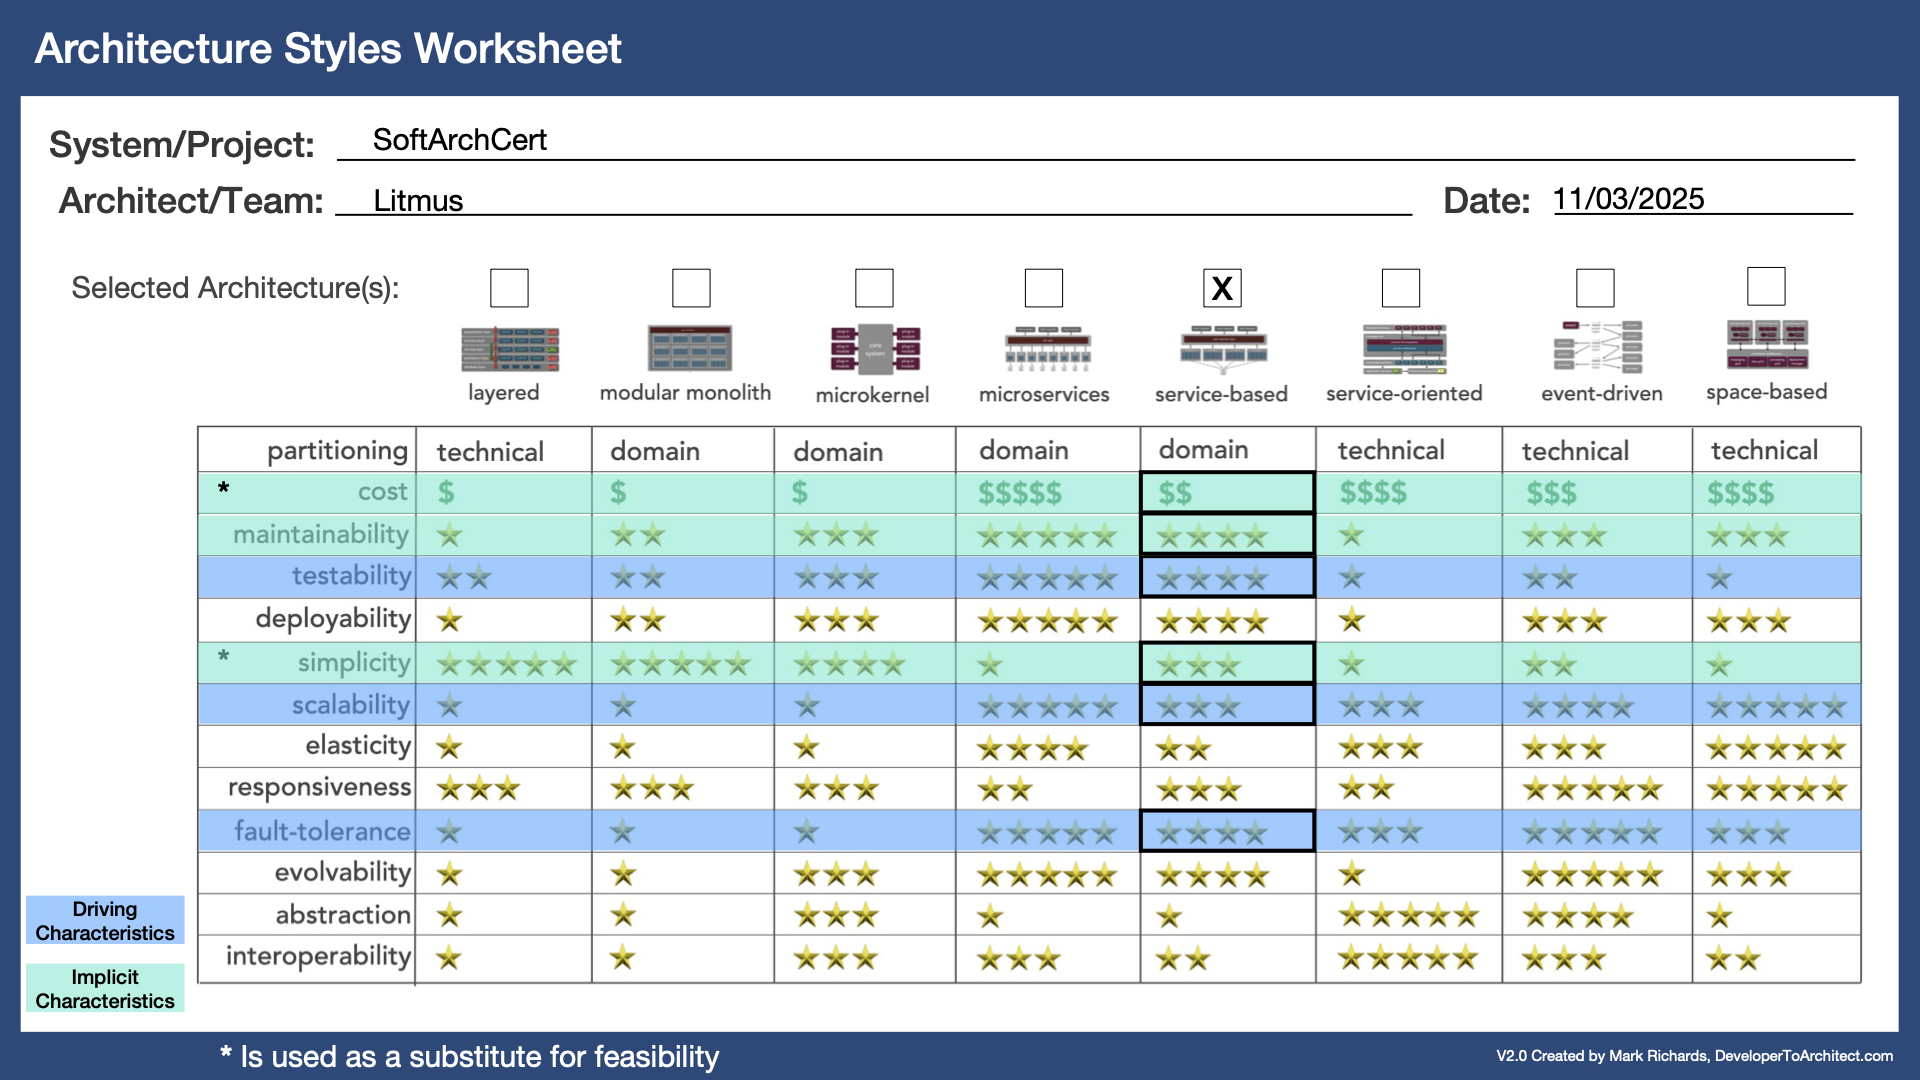
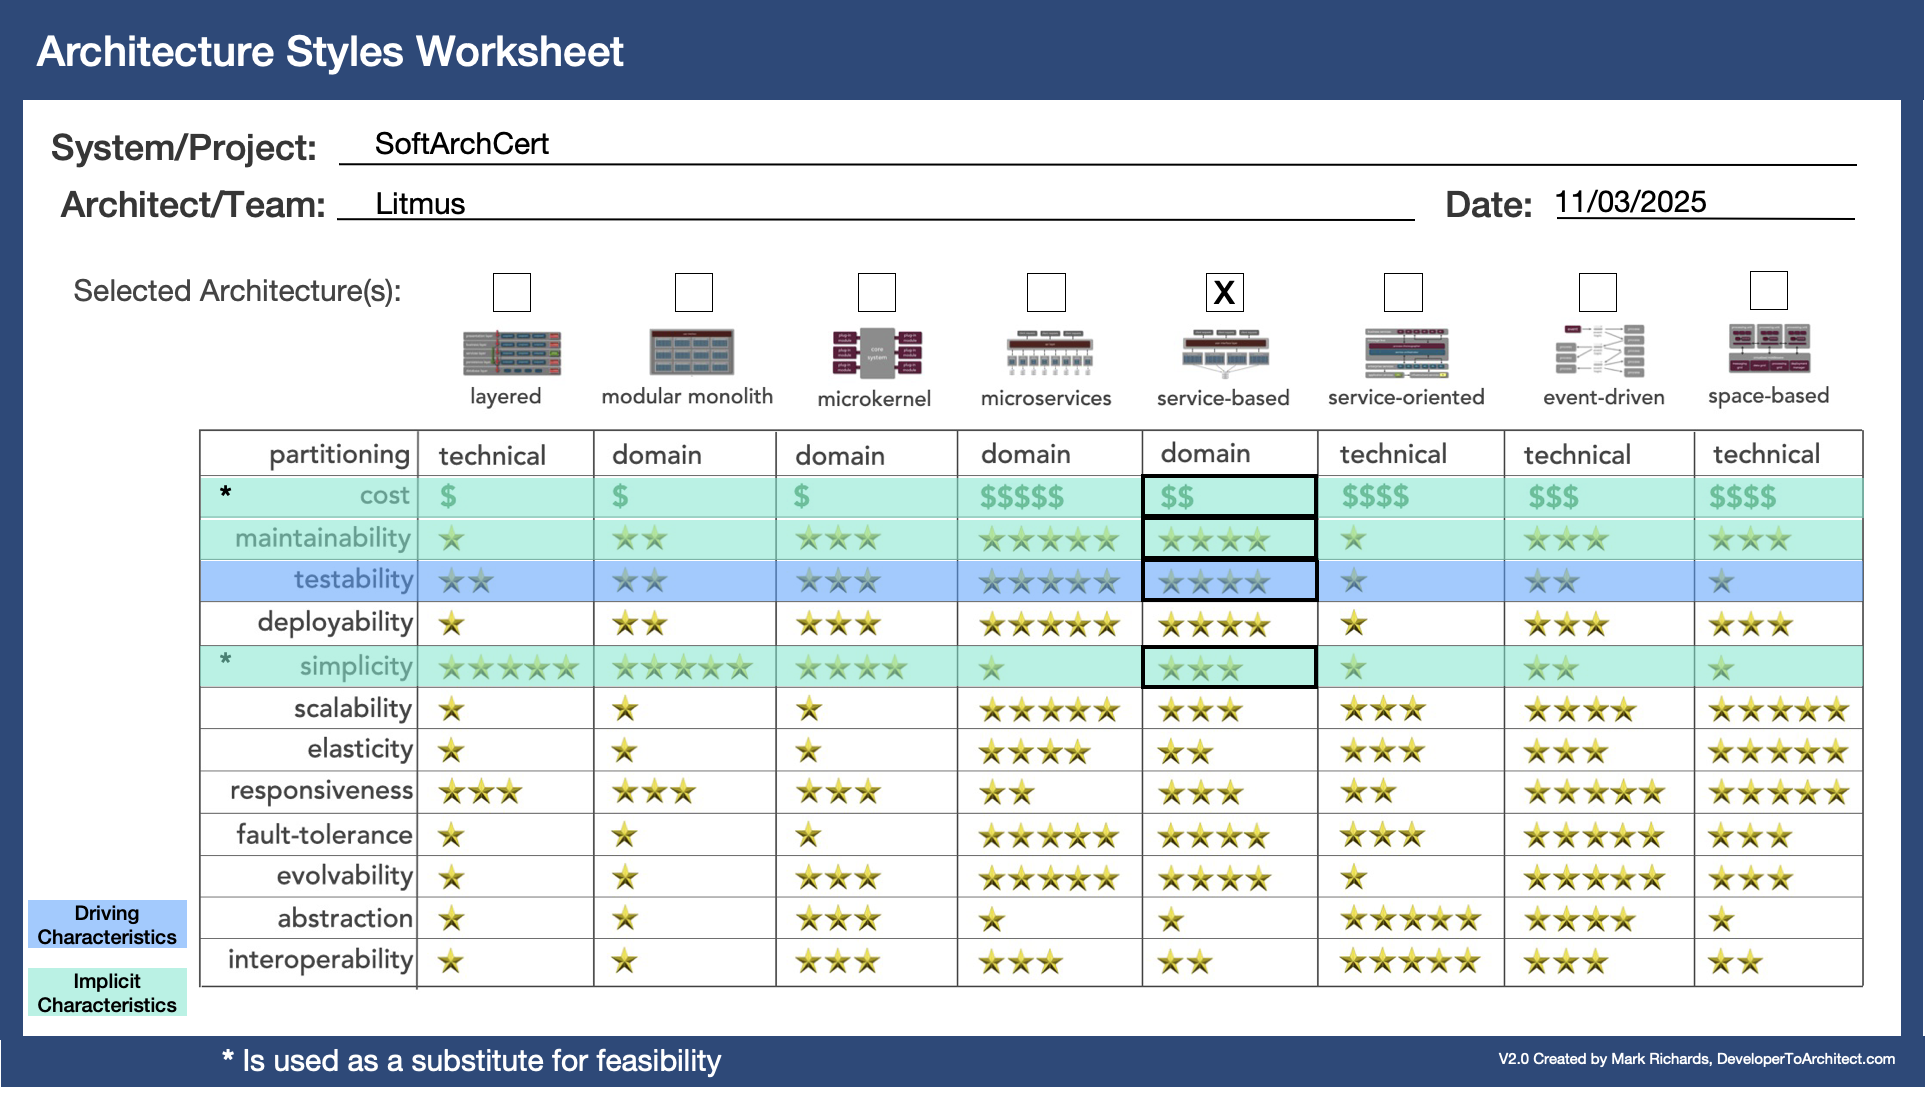
Simplifying the architecture characteristcs that have driven our architectural decisions, and how those decisions have influenced the characteristics.

diff --git a/Architecture Characteristics/architecture-characteristics.md b/Architecture Characteristics/architecture-characteristics.md
@@ -28,13 +28,14 @@ Starting from the business requirements the following important characteristics 
 Key characteristics prioritized:
 
 - **Accuracy**: Accuracy of the certification process is vital for the success of the company, and critical to ensure candidates do not suffer job loss or career damage due to inaccuracy.
-- **Reliability**: In addition to the reliability the existing system exhibits.
+- **Testability**: Robust regression tests are needed for non-deterministic AI systems to ensure quality and accuracy.
+- **Scalability**: Technically there is no challenge in the system meeting current SLAs even with the projected load through expansion, however scalability is a key factor in reducing SLAs in order to maintain a competitive advantage in the marketplace even with expansion, and to add additional certification paths beyond what is offered today.
+- **Reliability**: The system enables an architecture certification process that careers and employment status depends on - having a reliable system that is available, resilient even during partial failures, maintains data integrity and consistency across multiple disparate databases, and functions correctly is very important:
   - **Availability**: To ensure grades are available for employers to validate certification, that candidates are able to take exams, and that architecture experts are able to manually grade submissions through random sampling or through the appeals process.
   - **Testability**: Robust regression tests are needed for non-deterministic AI systems to ensure quality and accuracy.
   - **Data Integrity**: Data generated by AI systems if not stored correctly with without data loss would be detrimental to the certification process.
   - **Data Consistency**: Data generated by AI systems if not in sync and consistent across databases and tables would be detrimental to the certification process.
   - **Fault Tolerance**: Ensures product stability and partial functional availability in the system in the event of component failure e.g., failure of test 1 functionality does not effect test 2 functionality.
-- **Scalability**: Technically there is no challenge in the system meeting current SLAs even with the projected load through expansion, however scalability is a key factor in reducing SLAs in order to maintain a competitive advantage in the marketplace even with expansion, and to add additional certification paths beyond what is offered today.
 - **Auditability**: AI systems processes and results can be reviewed and verified for accuracy, compliance, and security.
 - **Sustainability**: Workloads, especially AI workloads, use the least amount of energy, cooling, embodied carbon, and carbon emissions possible while serving customer needs.
 - **Feasibility**: Cost-effective decisions minimize variance in basic functionality costs, offsetting the uncertainty of AI integration and maintenance, and improving time-to-market to take advantage of opportunities to expand abroad. Continued cost analysis allows us to balancing cost, accuracy, and reducing SLAs over time to maintain market dominance.
@@ -46,7 +47,7 @@ Reduced priorities:
 
 - **Integrity**: This is covered by accuracy, reliability, and auditability,
 
-## Selecting the Top 3 Driving Architecture Characteristics
+## Selecting the Top 2 Driving Architecture Characteristics
 
 During the requirements gathering process and the [EventStorming](../Event%20Storming/event-storming.md) session, we identified four main challenges:
 
@@ -55,7 +56,7 @@ During the requirements gathering process and the [EventStorming](../Event%20Sto
 - We need to be able to satisfactorily explain the process of how the automatic graders determined their score and provided feedback for the purposes of optimisation, and potential external litigation.
 - To keep SoftArchCert's continuing competitive advantage we need to ensure the solution can continuously evolve to meet tighter SLAs and customer demands whilst maintaining accuracy and reliability.
 
-These challenges led us to conclude that _Accuracy_, _Reliability_, and _Scalability_ are the top three driving factors for this project.
+These challenges led us to conclude that _Accuracy_ and _Testability_ are the top two driving factors for this project.
 
 ![Architecture Characteristics](./architecture-characteristics.png)
 
@@ -66,18 +67,12 @@ These challenges led us to conclude that _Accuracy_, _Reliability_, and _Scalabi
 - Robust regression tests are needed for non-deterministic AI systems to ensure quality due to model degradation, model changes, and changes in source material loaded into the vector database to facilitate the RAG pattern.
 - Continuous calibration of the results from AI processes against a small sample of equivalent manual processing ensures accuracy remains high.
 
-### Reliability
+### Testability
 
-- **Availability**: Candidate careers and employment status heavily dependent on certification means the system must be available for candidates to take exams, architecture experts can manually grade/review submissions, and architecture experts can continue to maintain exam material and keep the certification process credible in the marketplace.
-- **Testability**: As a recognized leader in certification, accuracy of tests, case studies, and grading inaccurate grading can result in a candidate not getting or maintaining a job and can impact a candidate's career, therefore the system must be easy to test, and those tests provide a sufficient level of coverage and completeness to maintain the high levels of accuracy needed to maintain credibility in the marketplace.
-- **Data Integrity**: Data within the databases in the system represent the true exam responses, exam grades and feedback, certification status for all candidates, and that the exam material stored is present and correct and reflects the current benchmark against which examinations are graded.
-- **Data Consistency**: Data generated by the AI systems across the various capabilities: test 1, test 2, test generation, accuracy validation remain consistent across the various datastores such that an accurate representation of certification status for all candidates is maintained, and examination material used in the examination process is present and correct across all systems.
-- **Fault Tolerance**: Candidate careers and employment status heavily dependent on certification means that even if parts of the system become unavailable candidates can continue to take exams for those tests that are still functional, and that architect experts can continue to maintain the system so at least partially examinations can continue to take place.
-
-### Scalability
-
-- Technically there is no challenge in the system meeting current SLAs even with the projected load through expansion, however scalability is a key factor in reducing SLAs in order to maintain a competitive advantage in the marketplace even with expansion, and to add additional certification paths beyond what is offered today.
-- By building scalability into the solution through use of AWS Bedrock to provide AI capabilities, we are leaving the solution open to evolve to support tighter SLAs, and future certification paths beyond what the company offers today, thereby providing a path for the company to grow stronger and remain dominant in the marketplace.
+- As a recognized leader in certification, accuracy of tests, case studies, and grading inaccurate grading can result in a candidate not getting or maintaining a job and can impact a candidate's career,
+- Tests must provide a sufficient level of coverage and completeness to maintain the high levels of accuracy needed to maintain credibility in the marketplace.
+- Robust regression tests are needed for non-deterministic AI systems to ensure quality and accuracy.
+- Regression testing is very important where the changes to the source material against which exam submissions are graded, or examination question sets, or the underlying LLM models could effect the quality and accuracy of the certification process.
 
 ## Selecting the Top 2 Implicit Architecture Characteristics
 

diff --git a/ADRs/ADR-02-Architecture-Style.md b/ADRs/ADR-02-Architecture-Style.md
@@ -18,7 +18,7 @@ Depending on the style, additional decisions like databases, communication patte
 
 ### Decision:
 
-According to the requirements and the [Architecture Characteristics](../Architecture%20Characteristics/architecture-characteristics.md) we decided to use the Service Based Architecture to better support testability, maintainability, feasibility (simplicity, and cost effectiveness). 
+According to the requirements and the [Architecture Characteristics](../Architecture%20Characteristics/architecture-characteristics.md) we decided to use the service-based Architecture to better support testability, maintainability, feasibility (simplicity, and cost effectiveness). 
 
 This compliments the existing architecture as it too follows an service-based architecture style. This allows us to integrate our additional components into existing components and databases thereby reducing complexity, and taking advantage of the existing driving architectures of the current system.
 
@@ -26,13 +26,13 @@ This compliments the existing architecture as it too follows an service-based ar
 
 ### Consequences:
 
-- Service-Based Architecture is comparatively cheaper and faster to build and easier to maintain.
+- Service-based architecture style is comparatively cheaper and faster to build and easier to maintain.
 - Additional components can integrate with existing components and databases.
 - The option remains to evolve the architecture through decomposition of existing components based on need derived from observing system behaviour and meeting future needs.
 
 ### Strengthened characteristics:
 - Cost (relatively straight forward to implement).
-- Maintainability (easy to add new services with new functionality).
+- Maintainability (easy to add new services/models with new functionality).
 - Testability (independent services with clear interfaces).
 
 ### Weakened characteristics

diff --git a/README.md b/README.md
@@ -228,26 +228,23 @@ systems. This document summarizes our outcomes and serves as a guide to understa
    - Address potential ethical concerns about AI use in grading, ensuring that the responses generated are appropriate and reliable.
 
 ## Architecture Characteristics
-We chose the following as our top 3 [architectural characteristics](./Architecture%20Characteristics/architecture-characteristics.md):
+We chose the following as our top 2 [architectural characteristics](./Architecture%20Characteristics/architecture-characteristics.md):
 
 ![Architecture Characteristics](/Architecture%20Characteristics/architecture-characteristics.png)
 
 - accuracy
-- reliability
-- scalability
+- testability
 
 ## Architecture Style
 
-According to the TOP 3 driving characteristics and TOP 2 implicit characteristics*:
+According to the TOP 2 driving characteristics and TOP 2 implicit characteristics*:
 
 - cost (feasability)*
 - maintainability*
-- testability (reliability)
+- testability
 - simplicity (feasability)*
-- scalability
-- fault-tolerance (reliability)
 
-a service-based architecture was selected to leverage the optimal balance between the driving architecture characteristics: testability, fault-tolerance, scalability; and implicit architectural characteristics: feasibility (cost/time) and maintainability.
+A service-based architecture was selected to leverage the optimal balance between the driving architecture characteristics: accuracy, testability; and implicit architectural characteristics: feasibility (cost/time) and maintainability.
 
 ![Architecture Style](./ADRs/images/ADR-02-architecture-style.png)
 
